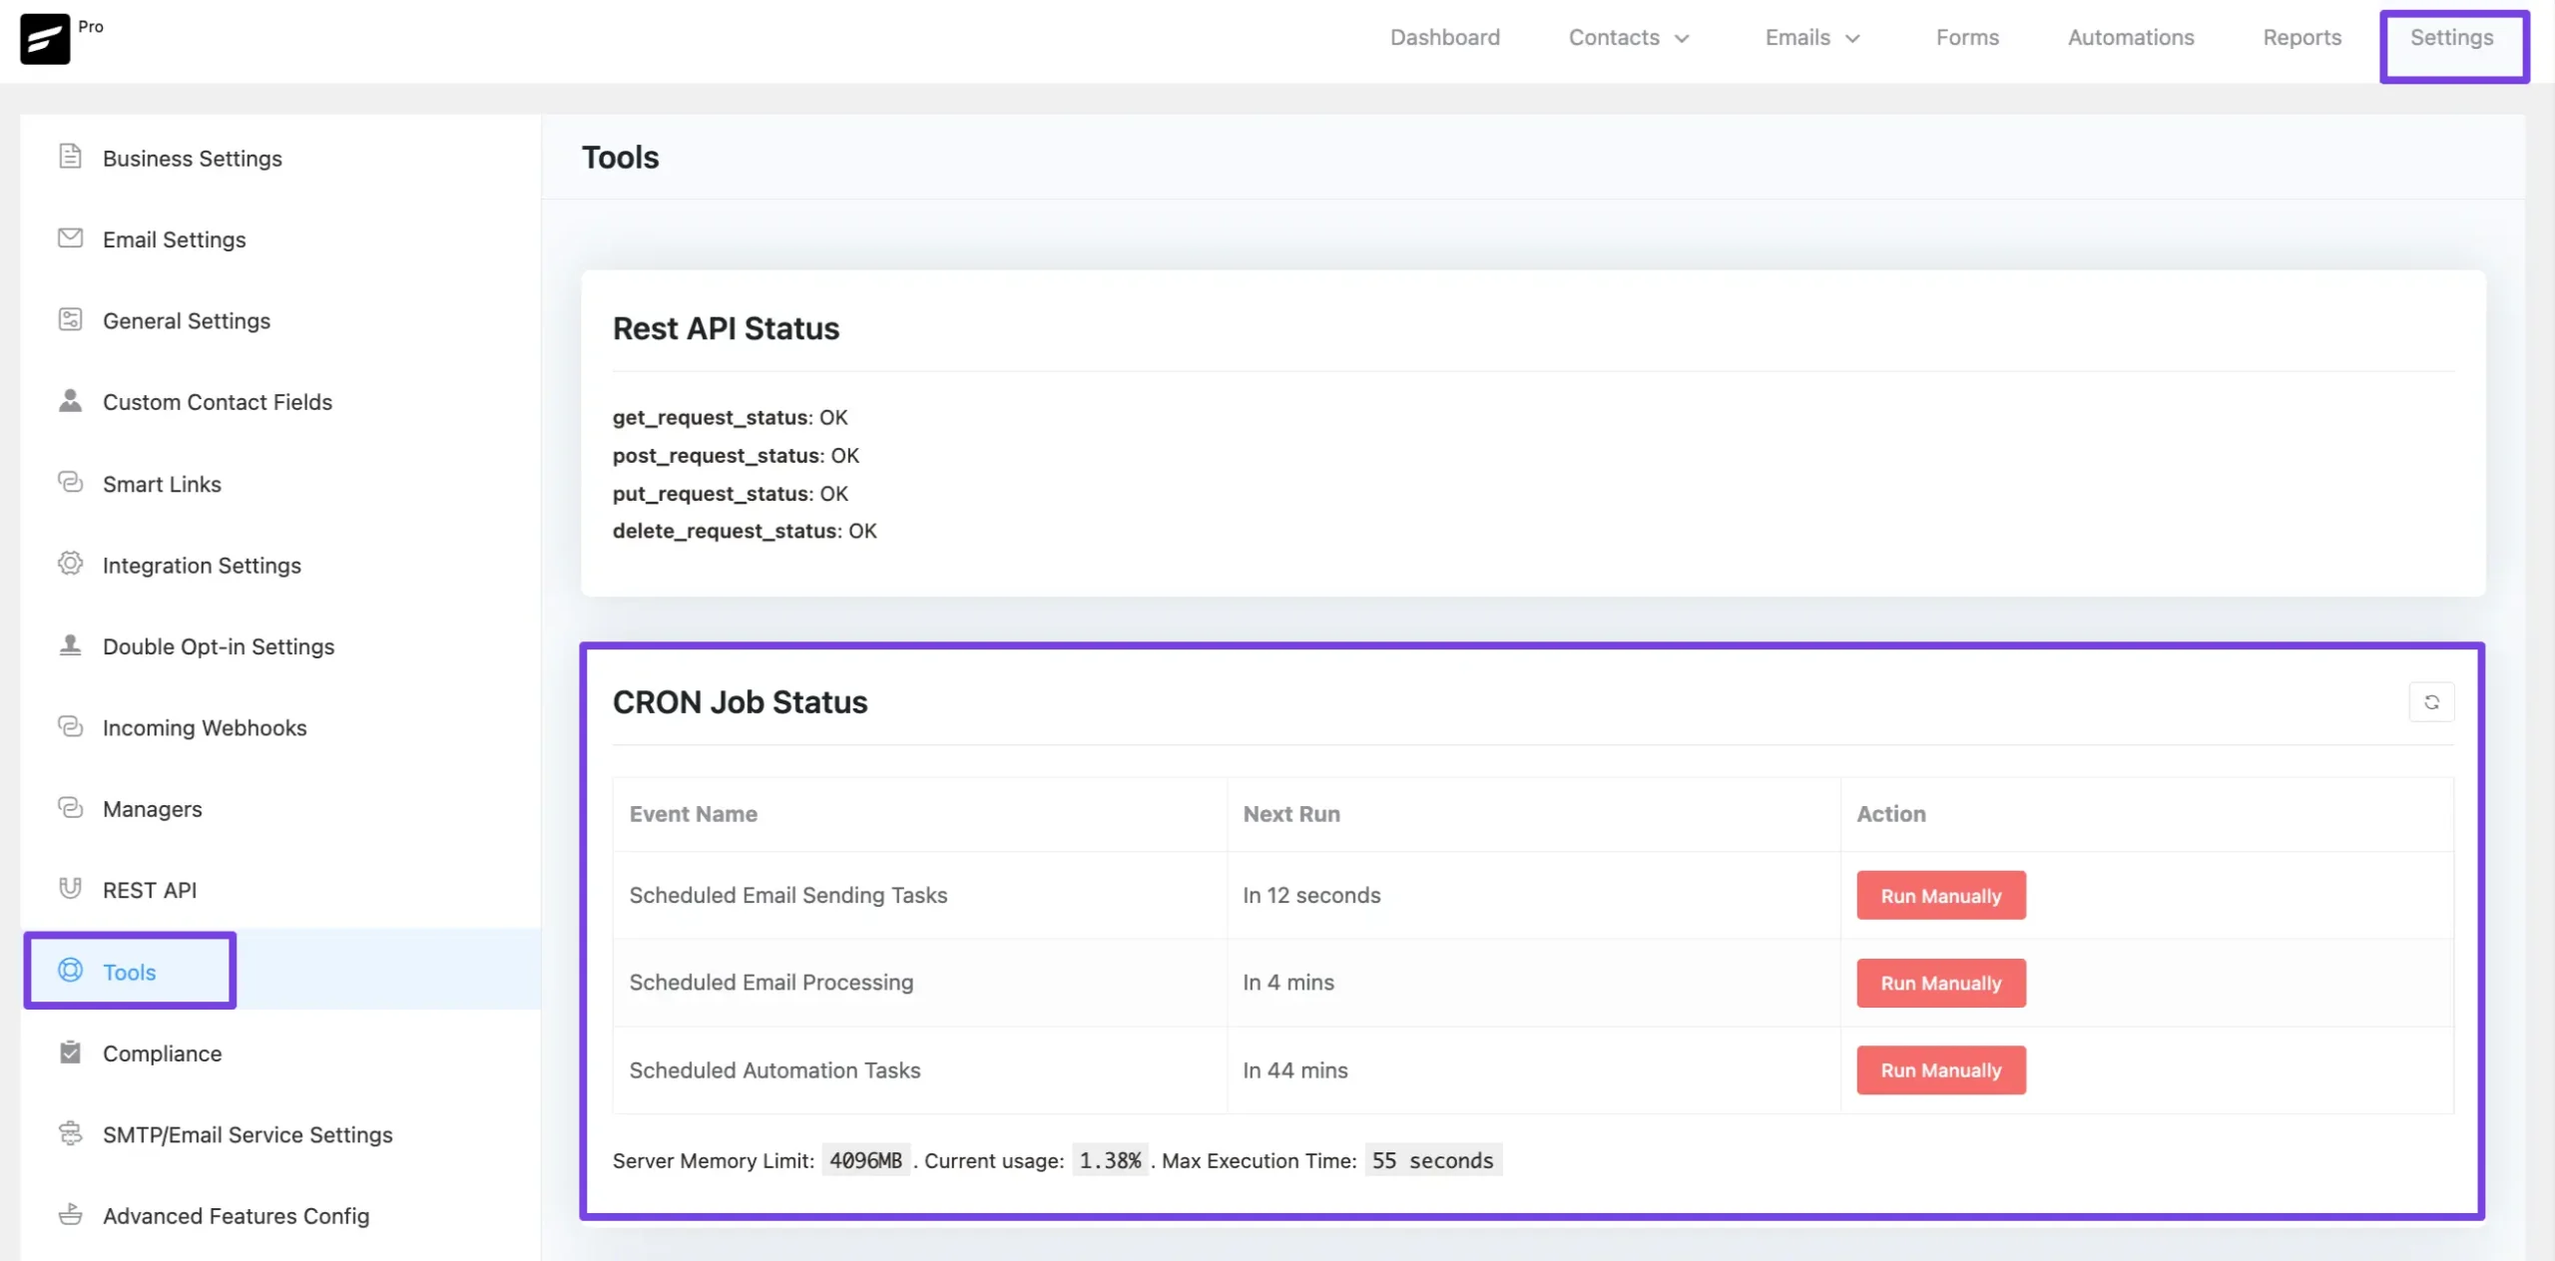
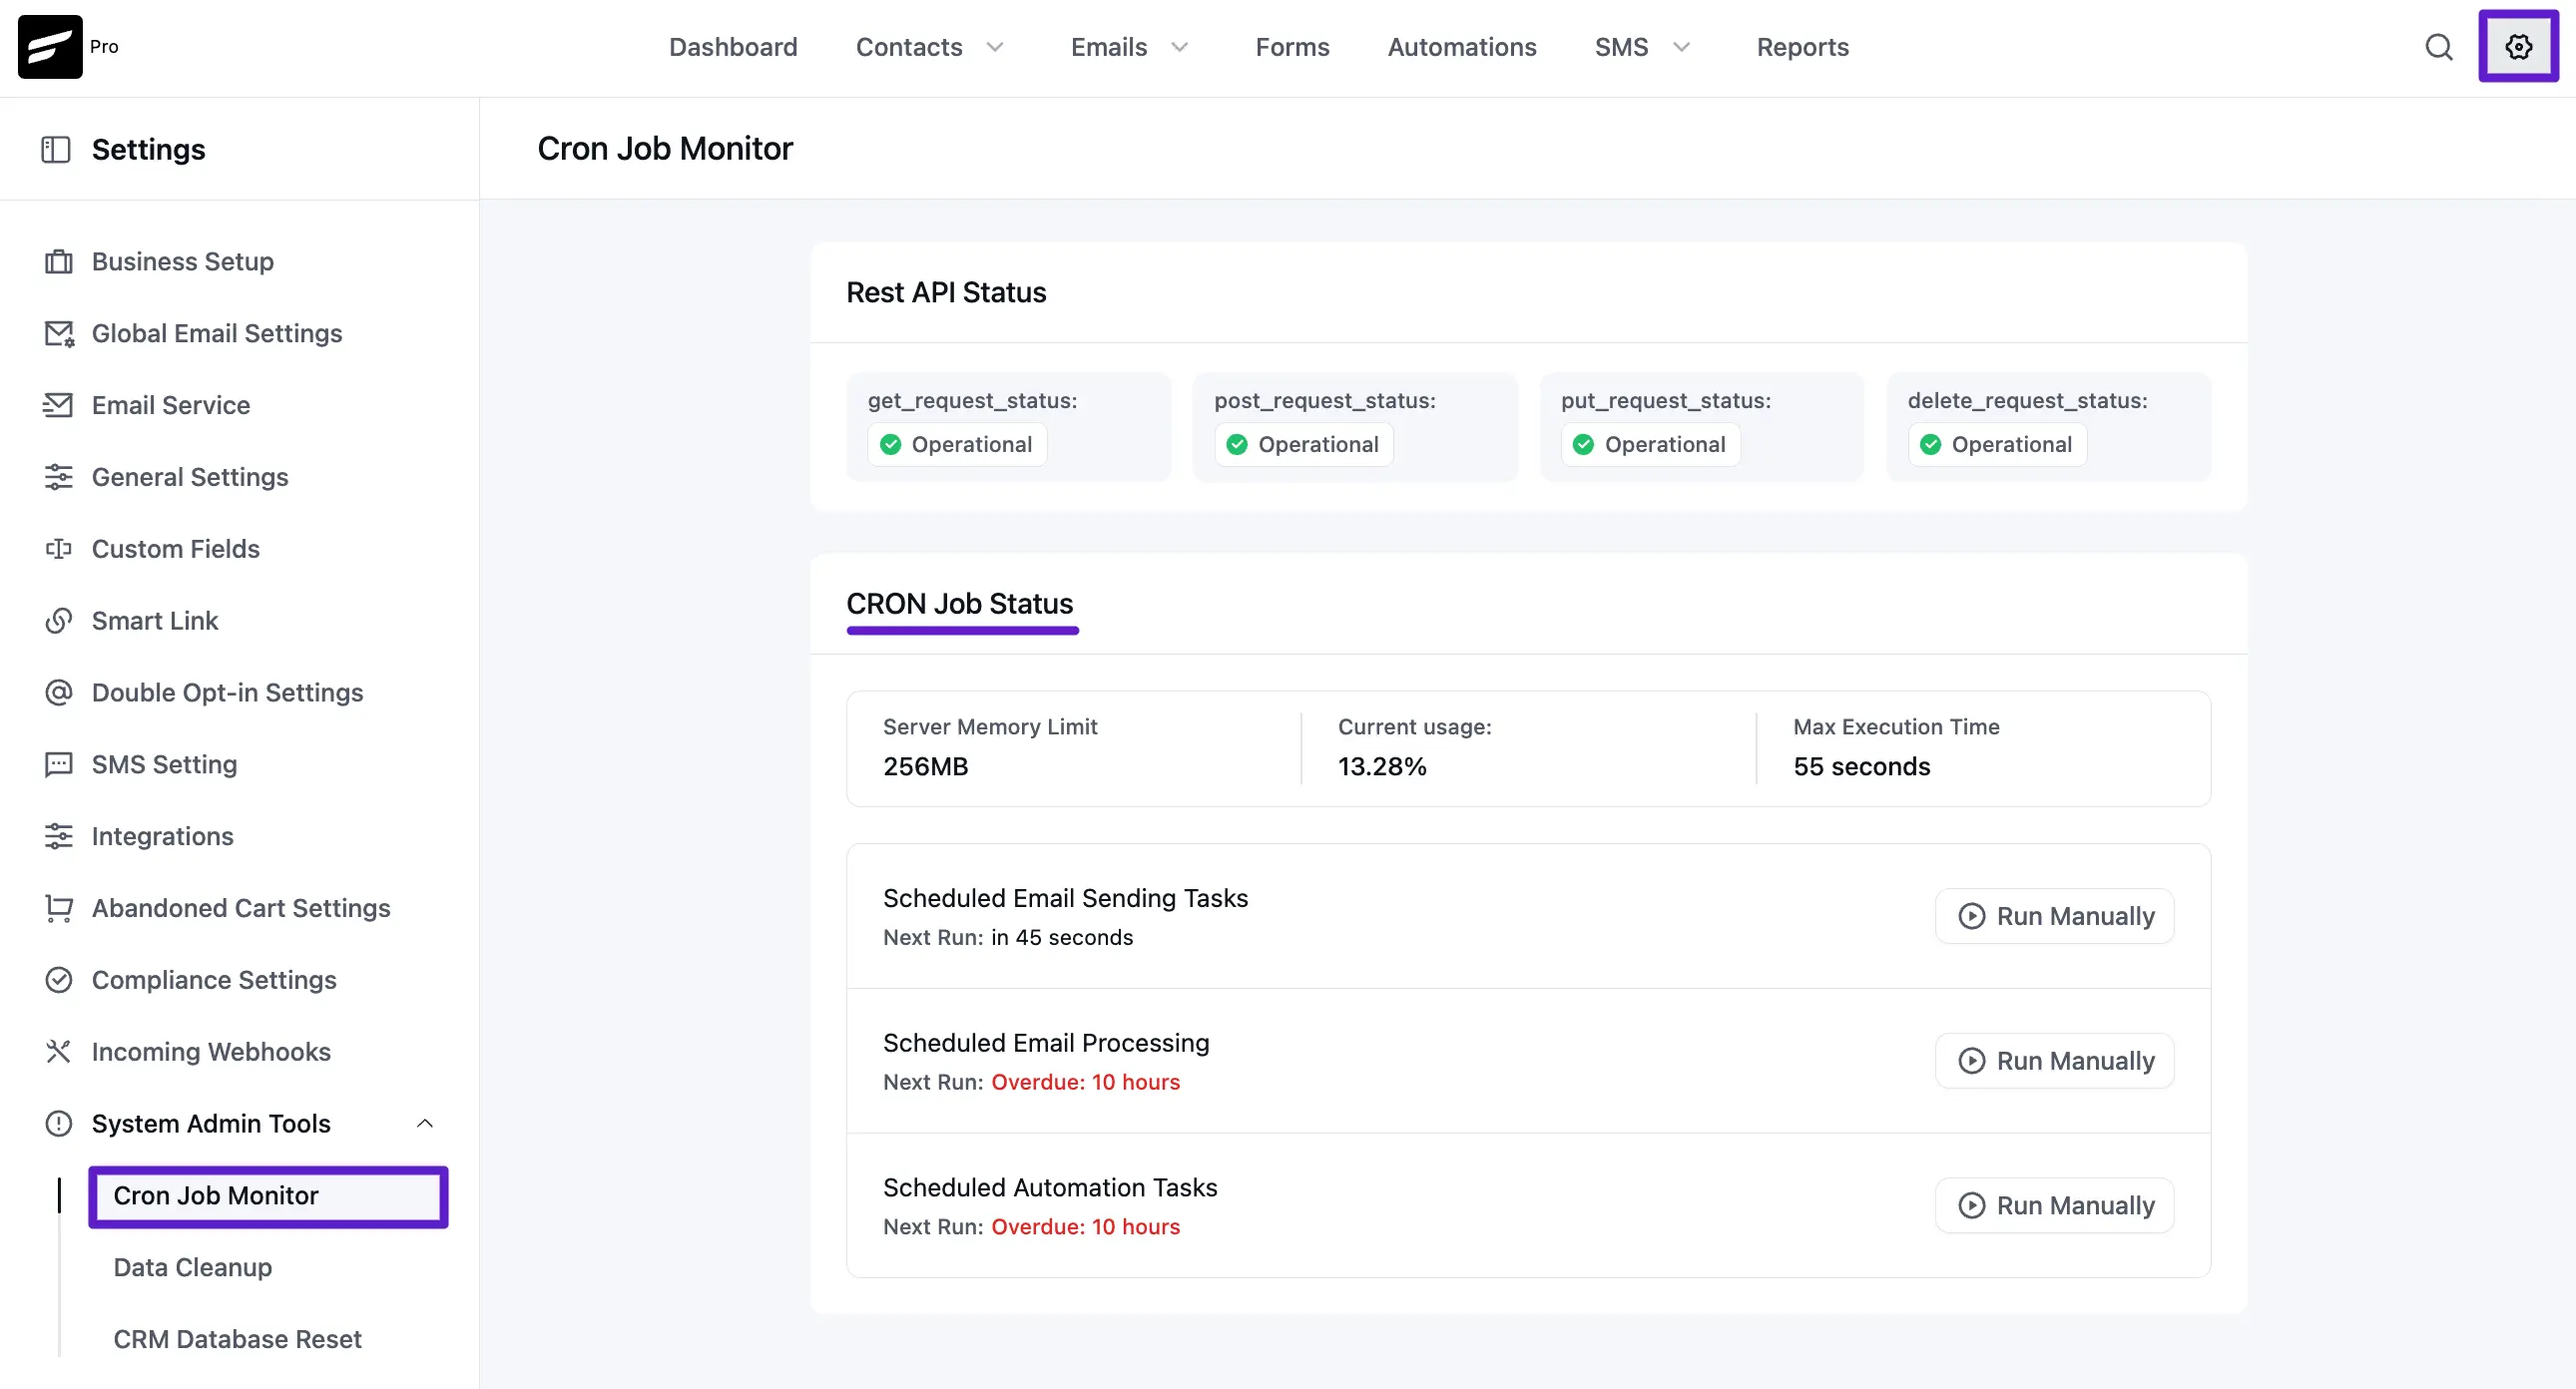
Cron Job: Basics & Checklist doc update

diff --git a/docs/fluentcrm-essentials/fluentcrm-cron-job-basics-and-checklist.md b/docs/fluentcrm-essentials/fluentcrm-cron-job-basics-and-checklist.md
@@ -6,6 +6,7 @@ order: 0
 ---
 
 # Cron Job: Basics & Checklist
+
 [FluentCRM](https://fluentcrm.com/) is a plugin that works continuously in the background to complete and process the tasks that are scheduled every minute like any other Email Marketing Application. This article will guide you through the **Primary Requirements** of **WordPress Cron Job Handover** to either [**Server-side**](/docs/replace-wordpress-cron-with-a-real-cron-job) or **Alternative Methods.**
 
 ## What Cron Jobs Do?
@@ -14,9 +15,9 @@ order: 0
 
 ## FluentCRM Cron Job Status
 
-**FluentCRM** has a few scheduled events and jobs that run frequently at various intervals. To know where you can find the regular and healthy **Cron Job Status,** follow the steps with screenshots below –
+**FluentCRM** has a few scheduled events and jobs that run frequently at various intervals. 
 
-First, go to **Settings** from the **Fluent CRM Navbar**, click the **Tools** settings option from the left sidebar, and you will find all the **CRON JOB Status** of **Fluent CRM.**
+Go to **Settings** from the top navigation bar. Then, from the left sidebar, open the **System Admin Tools** section. Click on **Cron Job Monitor** to see the current status of FluentCRM cron jobs.
 
 ##### **Recommended (We recommend) Intervals for Cron Job Status should be as below**:
 
